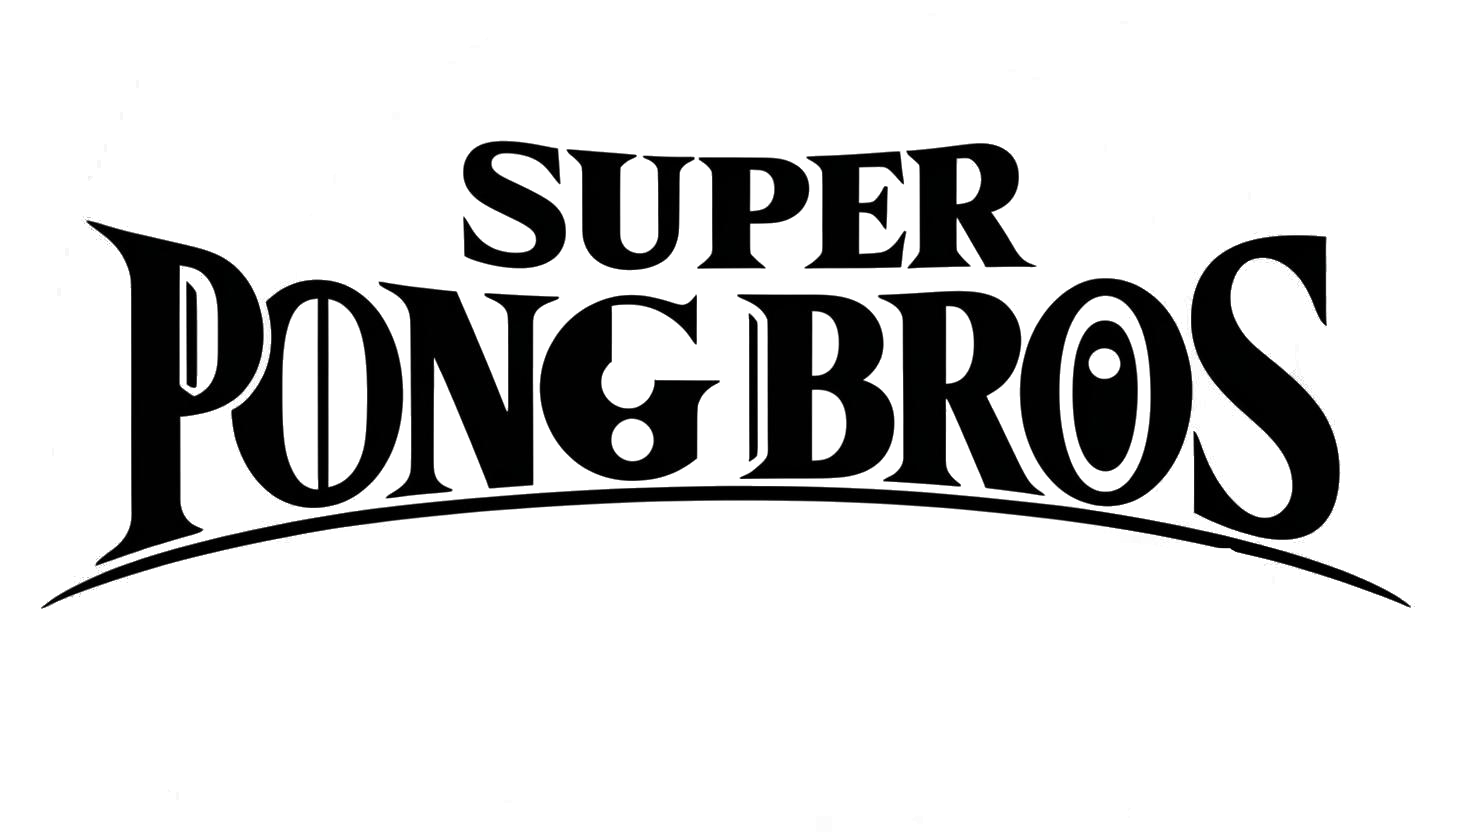
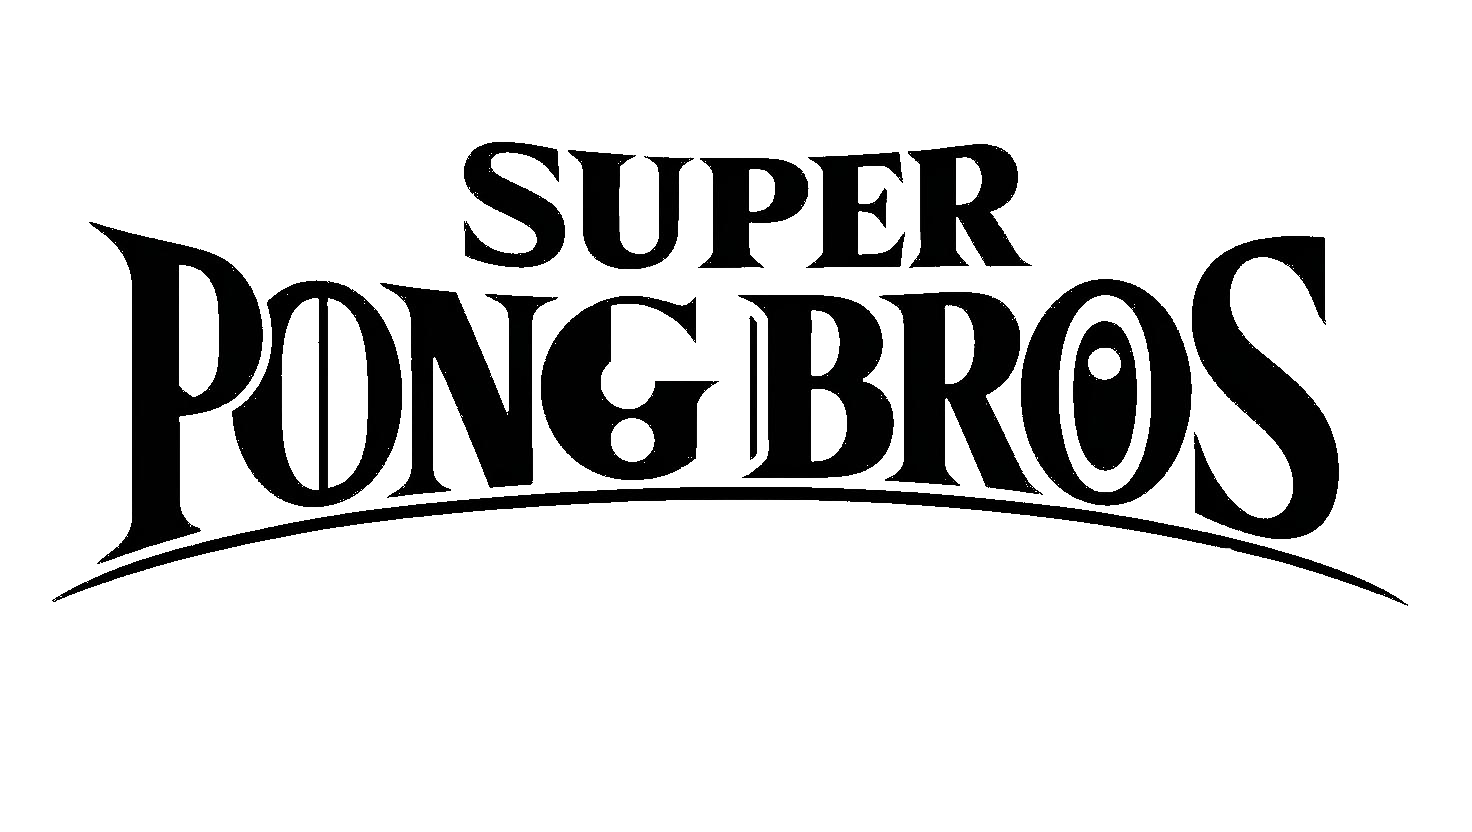
Super smash in white

diff --git a/srcs/requirements/frontend/static/index.html b/srcs/requirements/frontend/static/index.html
@@ -35,13 +35,13 @@
       >
         <img
           id="main-title"
-          src="./static/images/supersmash_titlescreen.png"
+          src="./static/images/supersmash_titlescreen_white.png"
           class="w-11/12 max-w-3xl lg:max-w-4xl xl:max-w-5xl mx-auto"
           alt="Game Title Screen"
         />
         <div
           id="sub-title"
-          class="text-4xl md:text-5xl lg:text-6xl font-serpentine mx-auto tracking-wide absolute bottom-[25vh] md:bottom-[30vh] left-0 right-0 opacity-0 invisible transition-opacity duration-700 ease-in-out"
+          class="text-4xl text-white md:text-5xl lg:text-6xl font-serpentine mx-auto tracking-wide absolute bottom-[25vh] md:bottom-[30vh] left-0 right-0 opacity-0 invisible transition-opacity duration-700 ease-in-out"
         >
           Transcendence
         </div>
@@ -49,7 +49,7 @@
         <button
           id="enter-button"
           data-target="main-menu-template"
-          class="text-5xl md:text-6xl lg:text-7xl font-serpentine absolute bottom-[10vh] md:bottom-[15vh] left-0 right-0 opacity-0 invisible transition-all duration-500 ease-in-out hover:text-gray-700 hover:scale-105 active:scale-100"
+          class="text-5xl text-white md:text-6xl lg:text-7xl font-serpentine absolute bottom-[10vh] md:bottom-[15vh] left-0 right-0 opacity-0 invisible transition-all duration-500 ease-in-out hover:text-gray-700 hover:scale-105 active:scale-100"
         >
           Enter
         </button>
@@ -368,7 +368,7 @@
     <div id="game-menu" class="z-50 w-full h-full flex items-center justify-center">
       <div id="game-menu-inner" class="w-[85%] h-[95%] flex flex-col overflow-auto">
         <!-- Game Type Selection -->
-        <div id="game-type-selection" class="flex-grow p-8 flex flex-col">
+        <div id="game-type-selection" class="flex-grow p-6 flex flex-col -mt-4">
           <h2 class="text-4xl font-bold font-serpentine text-center mb-8 text-white">
             Select Your Game
           </h2>
